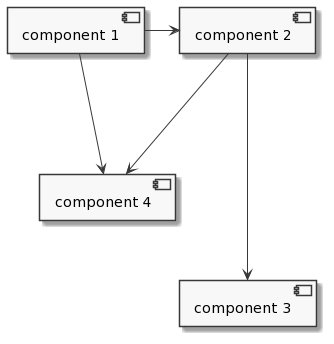
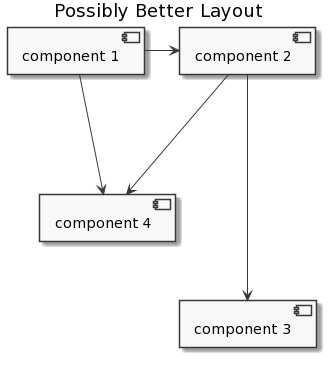
Improved formatting

diff --git a/docs/Layout-Techniques/other_layout_tricks.md b/docs/Layout-Techniques/other_layout_tricks.md
@@ -62,7 +62,8 @@ Apples -right-> Pears
 
 TBD
 
-```plantuml@startuml
+```plantuml
+@startuml
 left to right direction
 ```
 
@@ -70,7 +71,8 @@ left to right direction
 
 TBD
 
-```plantuml@startuml
+```plantuml
+@startuml
 together {
     rectangle "Box 1" as box_1
     rectangle "Box 2" as box_2
@@ -81,8 +83,11 @@ together {
 
 Can try extending lengths of lines by adding dashes, examples starting with normal length lines:
 
-```
+```plantuml
 @startuml
+
+title Ugly Layout
+
 skinparam monochrome true
 
 component [component 1] as myComponent
@@ -102,8 +107,11 @@ myComponent -> myComponent4
 
 Add dashes to lines to make them longer to change layout:
 
-```
+```plantuml
 @startuml
+
+title Possibly Better Layout
+
 skinparam monochrome true
 
 component [component 1] as myComponent
